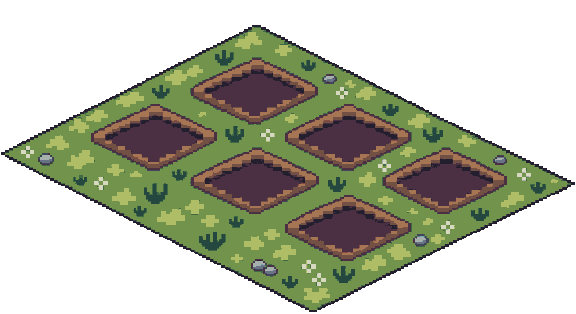
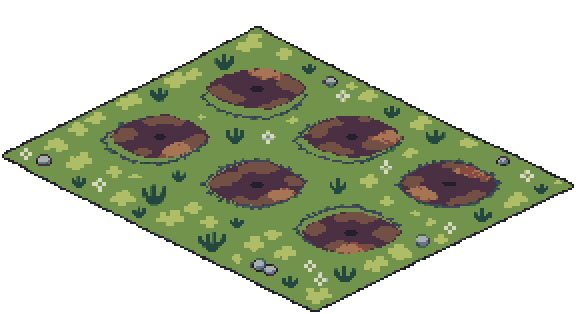
art: soften water beds and centre orchard roots in natural basins

diff --git a/docs/water-garden-composition-20261108.md b/docs/water-garden-composition-20261108.md
@@ -1,0 +1,9 @@
+# Water beds and orchard composition correction
+
+Owner rejected the raised snowy water rows and orchard roots sitting near the back corner. Replace the channels with authored low mossy banks, open teal water and restrained snowcaps. Replace raised square orchard pits with smaller organic mulch basins, preserving all six logical planting centres.
+
+Root cause: orchard sprites have roots at groundCentre.y110, while the generic decoration pivot is126 (includes footprint lift). Orchard renderer now anchors the roots using groundCentre; no saved tree slots or gameplay coordinates changed. Regression renders all six slots at every growth stage and compares actual draw origins to the root anchor; it failed16px before repair.
+
+Three original generated masters, prompts and hashes are under `garden-v05/environment/pond/masters/beds-orchard-20261108/`. Rebuild focused assets with `node garden-v05/build-water-garden-refresh.mjs` AFTER the original pond/edge/winter builders, then `node garden-v05/build-runtime-webp.mjs`. The builder preserves128×88 channel canvases and576×314 orchard canvas, binary alpha, palette and2px grid; earth basins are extracted from authored art and aligned to existing planting slots. Source art stays out of runtime imports.
+
+Verification: existing broad source suite403 pass /2 skip /0 fail, excluding historical progression-engine fixture as before; two focused orchard tests pass after adding basin-centre coverage. Winter provenance and water palette checks pass; WebP1382+8 verified. Actual3026 browser proof recorded separately in the HPVNN import. No release or physical-device claim.
